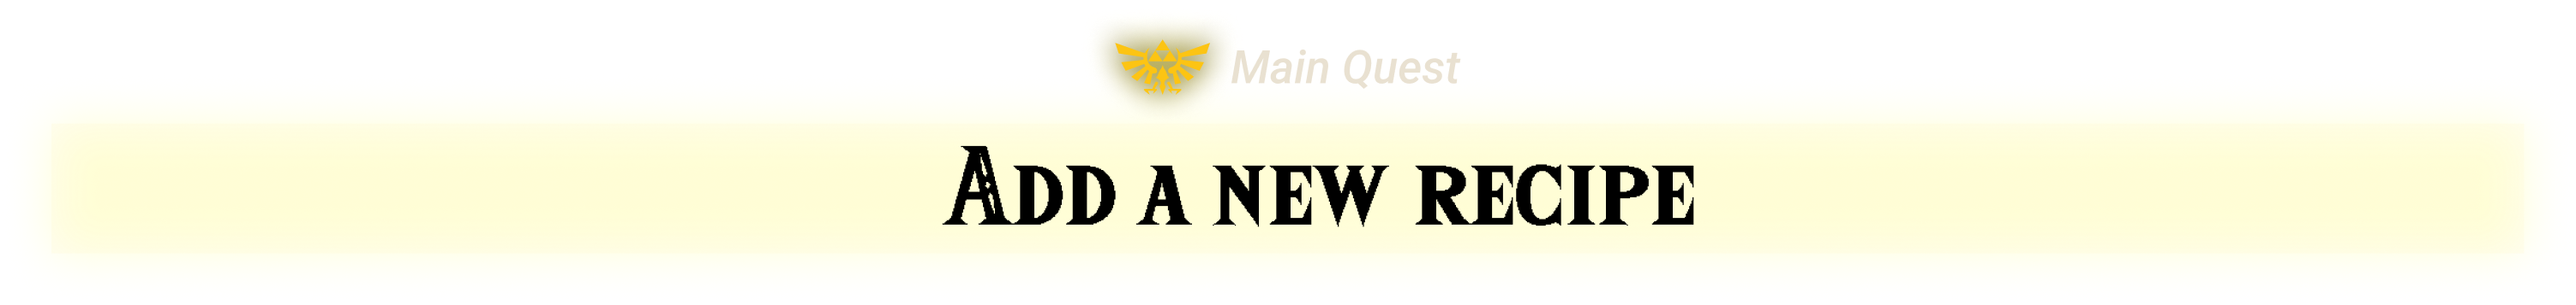
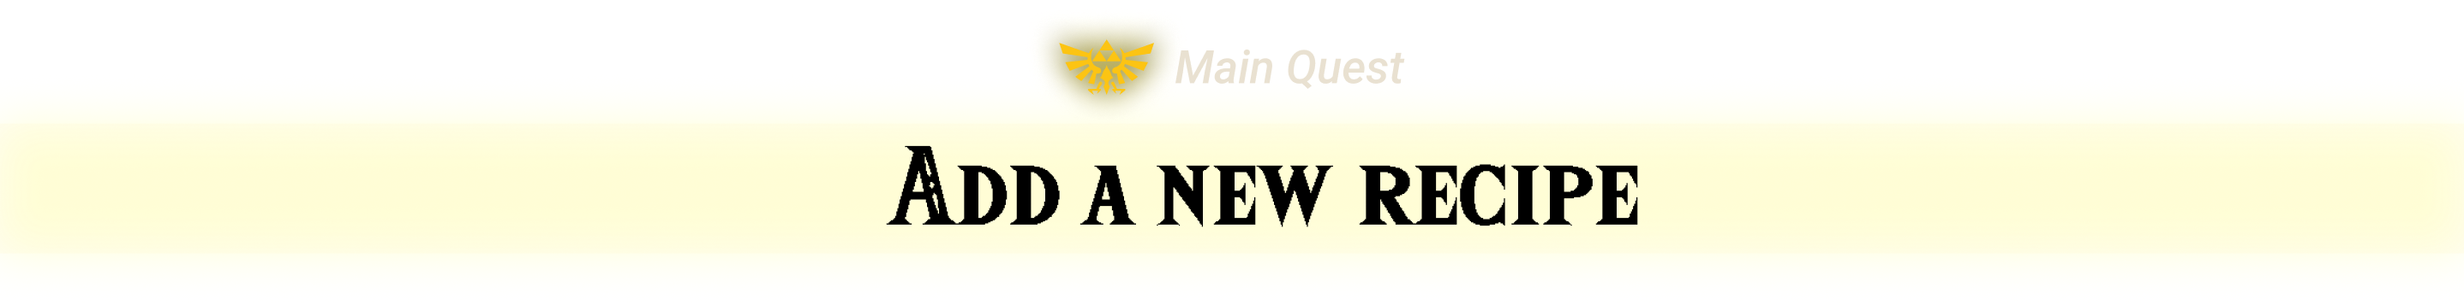
Quest One Animation done

diff --git a/src/views/ViewHome.vue b/src/views/ViewHome.vue
@@ -186,6 +186,11 @@
       @close="showBackupModal = false"
       @recipes-imported="handleRecipesImported"
     />
+
+    <QuestCompletion
+      :visible="showQuestCompletion"
+      @close="showQuestCompletion = false"
+    />
   </div>
 </template>
 
@@ -199,10 +204,12 @@ import { loadRecipes, deleteRecipe } from '../scripts/recipesStorage.js';
 import EditRecipeForm from '../components/EditRecipeForm.vue';
 import { useRouter } from 'vue-router';
 import BackupModal from '../components/BackupModal.vue';
+import QuestCompletion from '../components/QuestCompletion.vue';
+import { updateQuestState, getQuestById } from '../data/quests.js';
 
 export default {
   name: 'ViewHome',
-  components: { MenuBar, FullRecipeCard, RecipeCard, BackupModal },
+  components: { MenuBar, FullRecipeCard, RecipeCard, BackupModal, QuestCompletion },
   setup() {
     const searchQuery = ref('');
     const selectedFilters = ref([]);
@@ -218,6 +225,13 @@ export default {
     const showBackupModal = ref(false);
     const showEditForm = ref(false);
     const editingRecipe = ref(null);
+    const showQuestCompletion = ref(false);
+    
+    // Check if quest completion has been shown before
+    const hasShownQuestCompletion = ref(false);
+    if (typeof window !== 'undefined') {
+      hasShownQuestCompletion.value = localStorage.getItem('quest-1-completion-shown') === 'true';
+    }
     
     const filters = [
       {
@@ -237,7 +251,31 @@ export default {
     // Remove hardcoded recipes, use localStorage
     const recipes = ref([]);
     async function refreshRecipes() {
+      const previousCount = recipes.value.length;
       recipes.value = await loadRecipes();
+      
+      // Check if recipe count just became 1 and complete quest-1
+      if (previousCount === 0 && recipes.value.length === 1) {
+        updateQuestState('quest-1', 'complete');
+        // Show quest completion overlay only if this is the first time completing the quest
+        if (!hasShownQuestCompletion.value) {
+          showQuestCompletion.value = true;
+          hasShownQuestCompletion.value = true;
+          // Mark as shown in localStorage
+          if (typeof window !== 'undefined') {
+            localStorage.setItem('quest-1-completion-shown', 'true');
+          }
+        }
+      }
+      // Check if recipe count went back to 0 and reset quest-1 to active
+      else if (previousCount === 1 && recipes.value.length === 0) {
+        updateQuestState('quest-1', 'active');
+        // Reset the quest completion shown flag when quest becomes active again
+        hasShownQuestCompletion.value = false;
+        if (typeof window !== 'undefined') {
+          localStorage.removeItem('quest-1-completion-shown');
+        }
+      }
     }
     refreshRecipes();
 
@@ -364,6 +402,17 @@ export default {
     }
 
     function handleKeyPress(event) {
+      // If the event target is an input, textarea, or contenteditable element, 
+      // don't handle navigation keys to allow normal typing
+      if (event.target.tagName === 'INPUT' || event.target.tagName === 'TEXTAREA' || event.target.contentEditable === 'true') {
+        return;
+      }
+      
+      // Only handle navigation if we're actually on the home route
+      if (router.currentRoute.value.name !== 'Home') {
+        return;
+      }
+      
       if (showFullRecipe.value) {
         handleFullRecipeClose();
         return;
@@ -408,6 +457,10 @@ export default {
 
     function handleRecipesImported() {
       refreshRecipes();
+      // Check if imported recipes complete quest-1
+      if (recipes.value.length >= 1) {
+        updateQuestState('quest-1', 'complete');
+      }
     }
 
     onMounted(() => {
@@ -453,7 +506,8 @@ export default {
       showBackupModal,
       handleRecipesImported,
       showEditForm,
-      editingRecipe
+      editingRecipe,
+      showQuestCompletion
     };
   }
 }

diff --git a/src/components/QuestCompletion.vue b/src/components/QuestCompletion.vue
@@ -1,0 +1,130 @@
+<template>
+  <transition name="quest-completion">
+    <div v-if="visible" class="fixed inset-0 z-50 flex items-center justify-center">
+      <!-- Background overlay -->
+      <div class="absolute inset-0 bg-black bg-opacity-60"></div>
+      
+      <!-- Quest completion image -->
+      <div class="relative z-10 flex items-center justify-center">
+        <img 
+          src="/assets/ui-assets/add-new-recipe.png" 
+          alt="Quest Completion" 
+          class="max-w-full max-h-full object-contain"
+        />
+        
+        <!-- Complete badge - positioned further to the right of center -->
+        <div class="absolute top-1/2 left-1/2 transform -translate-y-7 translate-x-64">
+          <img 
+            v-if="visible"
+            src="/assets/ui-assets/complete.png" 
+            alt="Complete" 
+            class="w-40 h-40 object-contain complete-badge"
+          />
+        </div>
+        
+        <!-- Close button -->
+        <button 
+          @click="close"
+          class="absolute top-4 right-4 w-8 h-8 bg-red-500/80 hover:bg-red-600/90 rounded-full flex items-center justify-center transition-all duration-300 backdrop-blur-sm"
+        >
+          <svg class="w-5 h-5 text-white" fill="none" stroke="currentColor" viewBox="0 0 24 24">
+            <path stroke-linecap="round" stroke-linejoin="round" stroke-width="2" d="M6 18L18 6M6 6l12 12"/>
+          </svg>
+        </button>
+      </div>
+    </div>
+  </transition>
+</template>
+
+<script>
+import { watch } from 'vue';
+
+export default {
+  name: 'QuestCompletion',
+  props: {
+    visible: {
+      type: Boolean,
+      default: false
+    }
+  },
+  emits: ['close'],
+  setup(props, { emit }) {
+    let autoCloseTimer = null;
+
+    const close = () => {
+      emit('close');
+    };
+
+    // Watch for when the component becomes visible and start the auto-close timer
+    const startAutoCloseTimer = () => {
+      if (autoCloseTimer) {
+        clearTimeout(autoCloseTimer);
+      }
+      autoCloseTimer = setTimeout(() => {
+        close();
+      }, 8000); // 8 seconds
+    };
+
+    // Watch for changes to the visible prop
+    watch(() => props.visible, (newVisible) => {
+      if (newVisible) {
+        startAutoCloseTimer();
+      } else {
+        // Clear timer if component becomes hidden
+        if (autoCloseTimer) {
+          clearTimeout(autoCloseTimer);
+          autoCloseTimer = null;
+        }
+      }
+    });
+
+    return {
+      close,
+      startAutoCloseTimer
+    };
+  }
+}
+</script>
+
+<style scoped>
+.quest-completion-enter-active,
+.quest-completion-leave-active {
+  transition: all 0.5s ease;
+}
+
+.quest-completion-enter-from {
+  opacity: 0;
+  transform: scale(0.9);
+}
+
+.quest-completion-leave-to {
+  opacity: 0;
+  transform: scale(1.1);
+}
+
+.quest-completion-enter-to,
+.quest-completion-leave-from {
+  opacity: 1;
+  transform: scale(1);
+}
+
+/* Grow-in animation for the complete badge */
+.complete-badge {
+  animation: growIn 1.4s cubic-bezier(0.68, -0.55, 0.265, 1.55) forwards;
+}
+
+@keyframes growIn {
+  0% {
+    opacity: 0;
+    transform: scale(0);
+  }
+  50% {
+    opacity: 0.8;
+    transform: scale(1.2);
+  }
+  100% {
+    opacity: 1;
+    transform: scale(1);
+  }
+}
+</style> 

diff --git a/src/views/AdventureLog.vue b/src/views/AdventureLog.vue
@@ -107,6 +107,17 @@ export default {
   },
   methods: {
     handleKeydown(event) {
+      // If the event target is an input, textarea, or contenteditable element, 
+      // don't handle navigation keys to allow normal typing
+      if (event.target.tagName === 'INPUT' || event.target.tagName === 'TEXTAREA' || event.target.contentEditable === 'true') {
+        return;
+      }
+      
+      // Only handle navigation if we're actually on the adventure-log route
+      if (this.$route.name !== 'AdventureLog') {
+        return;
+      }
+      
       if (event.key === 'r' || event.key === 'R' || 
         event.key === 'ArrowRight'
       ) {

diff --git a/src/components/AddRecipeForm.vue b/src/components/AddRecipeForm.vue
@@ -237,6 +237,14 @@ export default {
       }
     }
     function handleKeydown(e) {
+      // If the event target is an input, textarea, or contenteditable element, 
+      // don't handle navigation keys to allow normal typing
+      if (e.target.tagName === 'INPUT' || e.target.tagName === 'TEXTAREA' || e.target.contentEditable === 'true') {
+        // Prevent the event from bubbling up to parent components
+        e.stopPropagation();
+        return;
+      }
+      
       if (e.key === 'ArrowLeft') {
         if (currentStep.value > 1) {
           currentStep.value--;

diff --git a/src/scripts/recipesStorage.js b/src/scripts/recipesStorage.js
@@ -1,7 +1,7 @@
 // Utility for saving and loading recipes from IndexedDB
 const DB_NAME = 'sheikah_plate_db';
 const STORE_NAME = 'recipes';
-const DB_VERSION = 1;
+const DB_VERSION = 2;
 
 function openDB() {
   return new Promise((resolve, reject) => {
